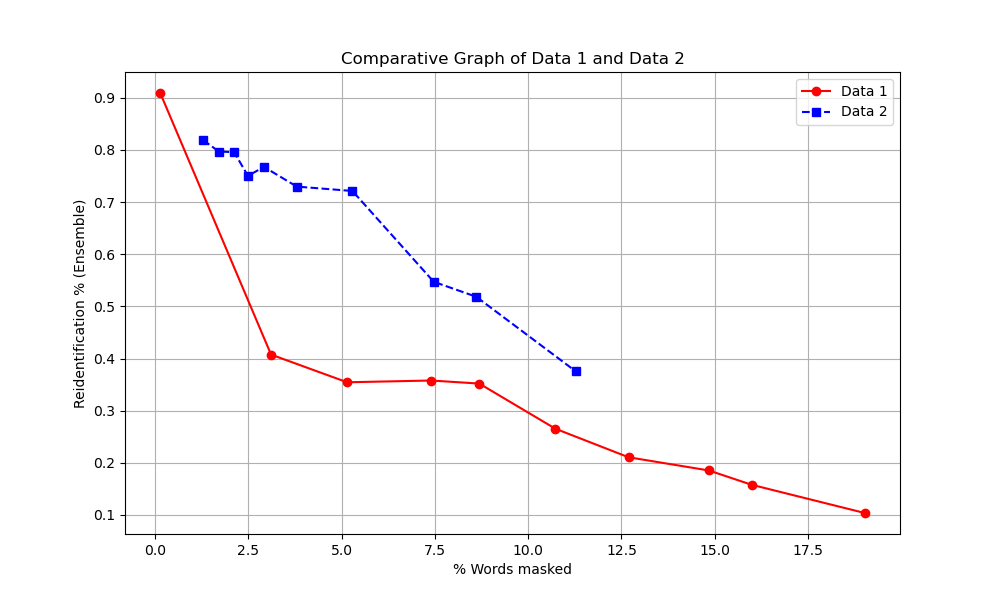
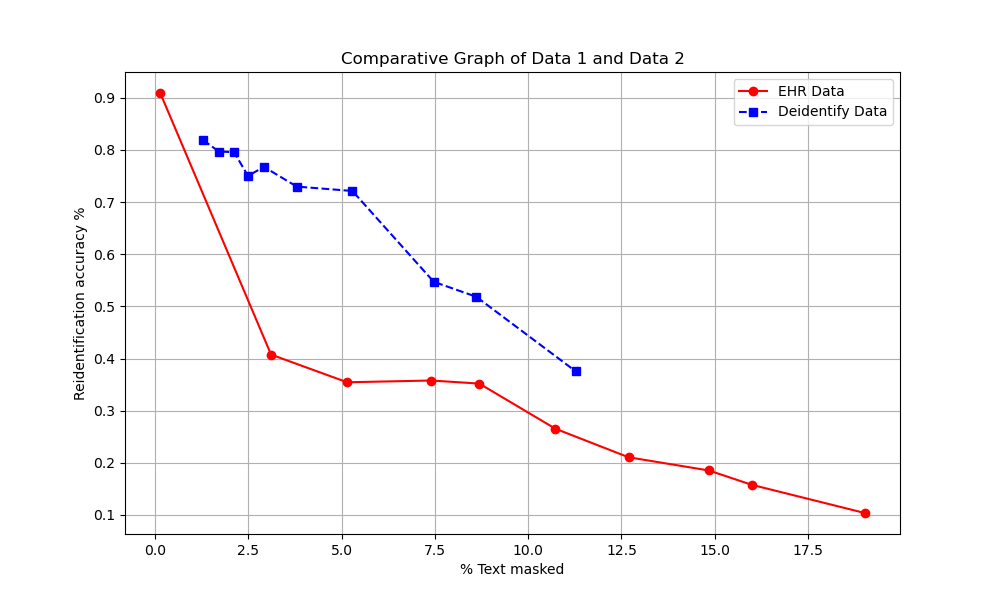
plot script modified

Changed region(s): [[0.744, 0.12, 0.899, 0.21], [0.062, 0.33, 0.093, 0.69], [0.434, 0.93, 0.589, 0.96]]

diff --git a/utils/plot_masking_percentage_vs_val_acc_graph.py b/utils/plot_masking_percentage_vs_val_acc_graph.py
@@ -1,31 +1,31 @@
 import matplotlib.pyplot as plt
 
 # Updated data
-data1 = [
+EHR_data = [
     [0.14, 0.9093], [3.11, 0.4076], [5.15, 0.3545], [7.40, 0.3579], 
     [8.69, 0.352], [10.73, 0.2654], [12.69, 0.2107], [14.84, 0.1854], 
     [15.99, 0.1579], [19.02, 0.1038]
 ]
 
-data2 = [
+Deidentify_data = [
     [1.29, 0.819], [1.71, 0.7971], [2.12, 0.7958], [2.49, 0.7504], 
     [2.92, 0.7675], [3.80, 0.7298], [5.29, 0.7214], [7.47, 0.5472], 
     [8.61, 0.5185], [11.28, 0.3752]
 ]
 
 # Extracting x and y values
-x1, y1 = zip(*data1)
-x2, y2 = zip(*data2)
+x1, y1 = zip(*EHR_data)
+x2, y2 = zip(*Deidentify_data)
 
 # Plotting the data
 plt.figure(figsize=(10, 6))
-plt.plot(x1, y1, marker='o', label='Data 1', linestyle='-', color='red')
-plt.plot(x2, y2, marker='s', label='Data 2', linestyle='--', color='blue')
+plt.plot(x1, y1, marker='o', label='EHR Data', linestyle='-', color='red')
+plt.plot(x2, y2, marker='s', label='Deidentify Data', linestyle='--', color='blue')
 
 # Adding titles and labels
 plt.title('Comparative Graph of Data 1 and Data 2')
-plt.xlabel('% Words masked')
-plt.ylabel('Reidentification % (Ensemble)')
+plt.xlabel('% Text masked')
+plt.ylabel('Reidentification accuracy %')
 plt.legend()
 
 # Display the plot
